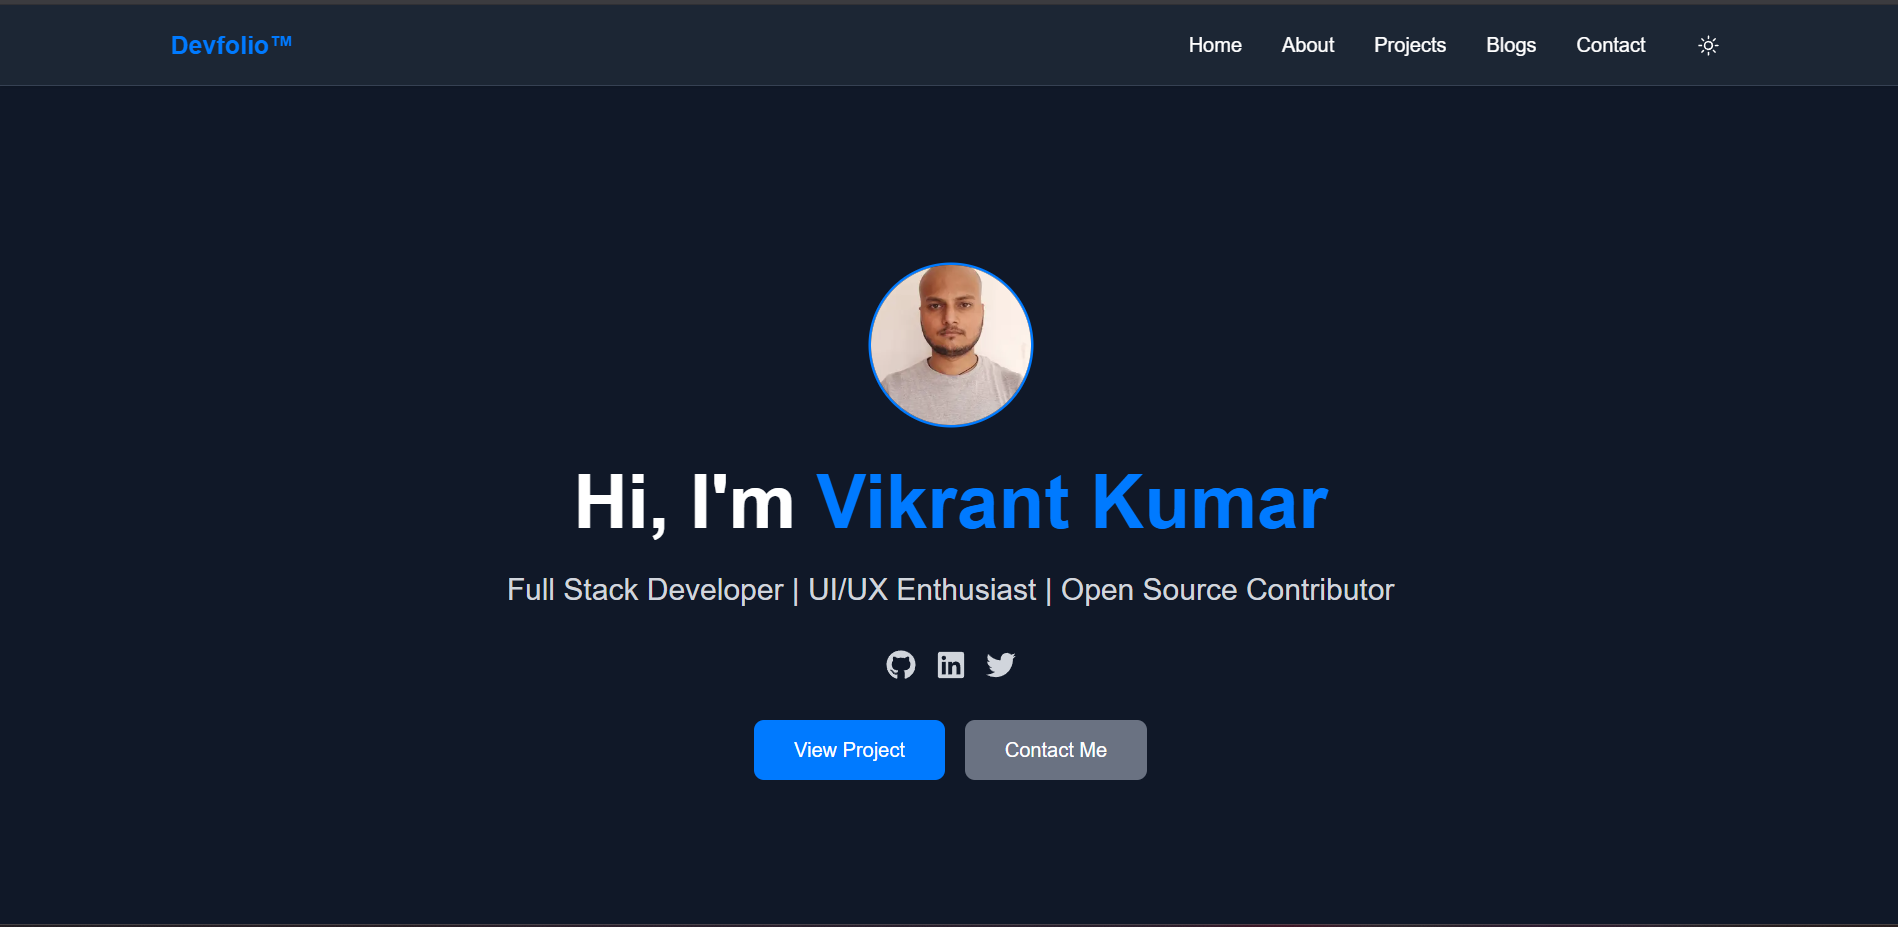
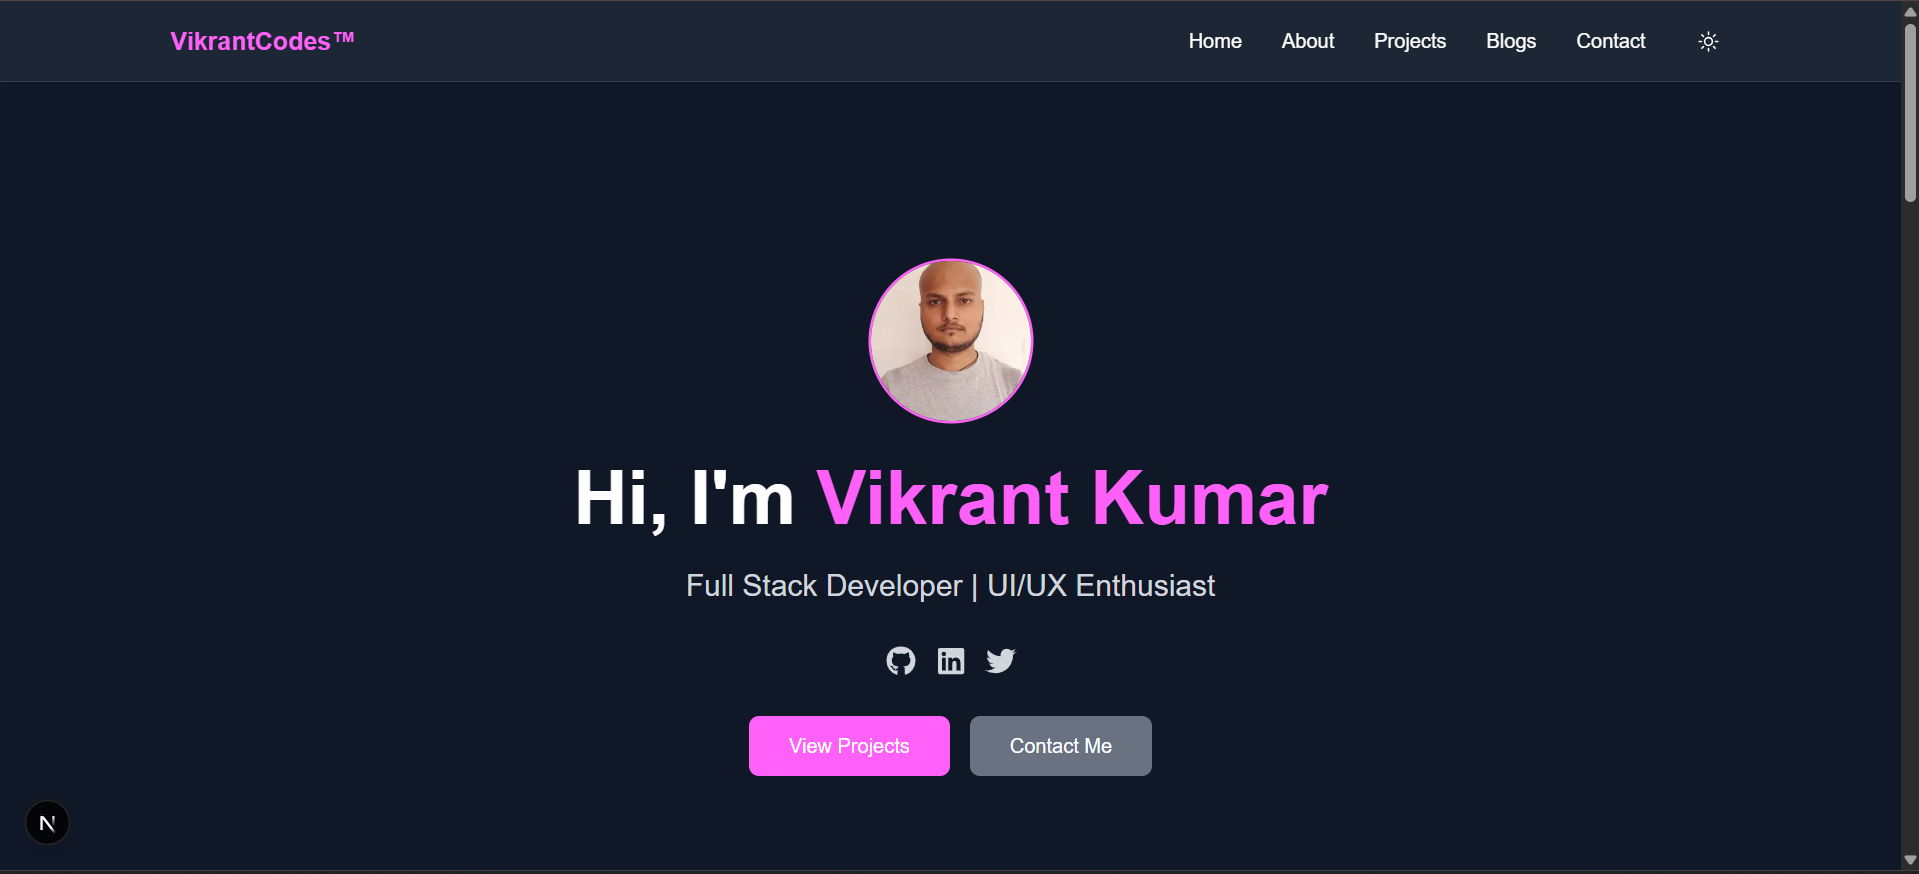
changed portfolio image

diff --git a/src/app/components/Blogs.tsx b/src/app/components/Blogs.tsx
@@ -31,7 +31,7 @@ const Blogs = () => {
               variants={fadeInUp}
               {...cardHoverSmall}
             >
-              <Link href={`/blogs/${blog.slug}`}>
+              <Link href={blog.link}>
                 <motion.h3 
                   className="text-xl font-semibold mb-2 hover:text-primary transition-colors"
                   whileHover={{ x: 5 }}
